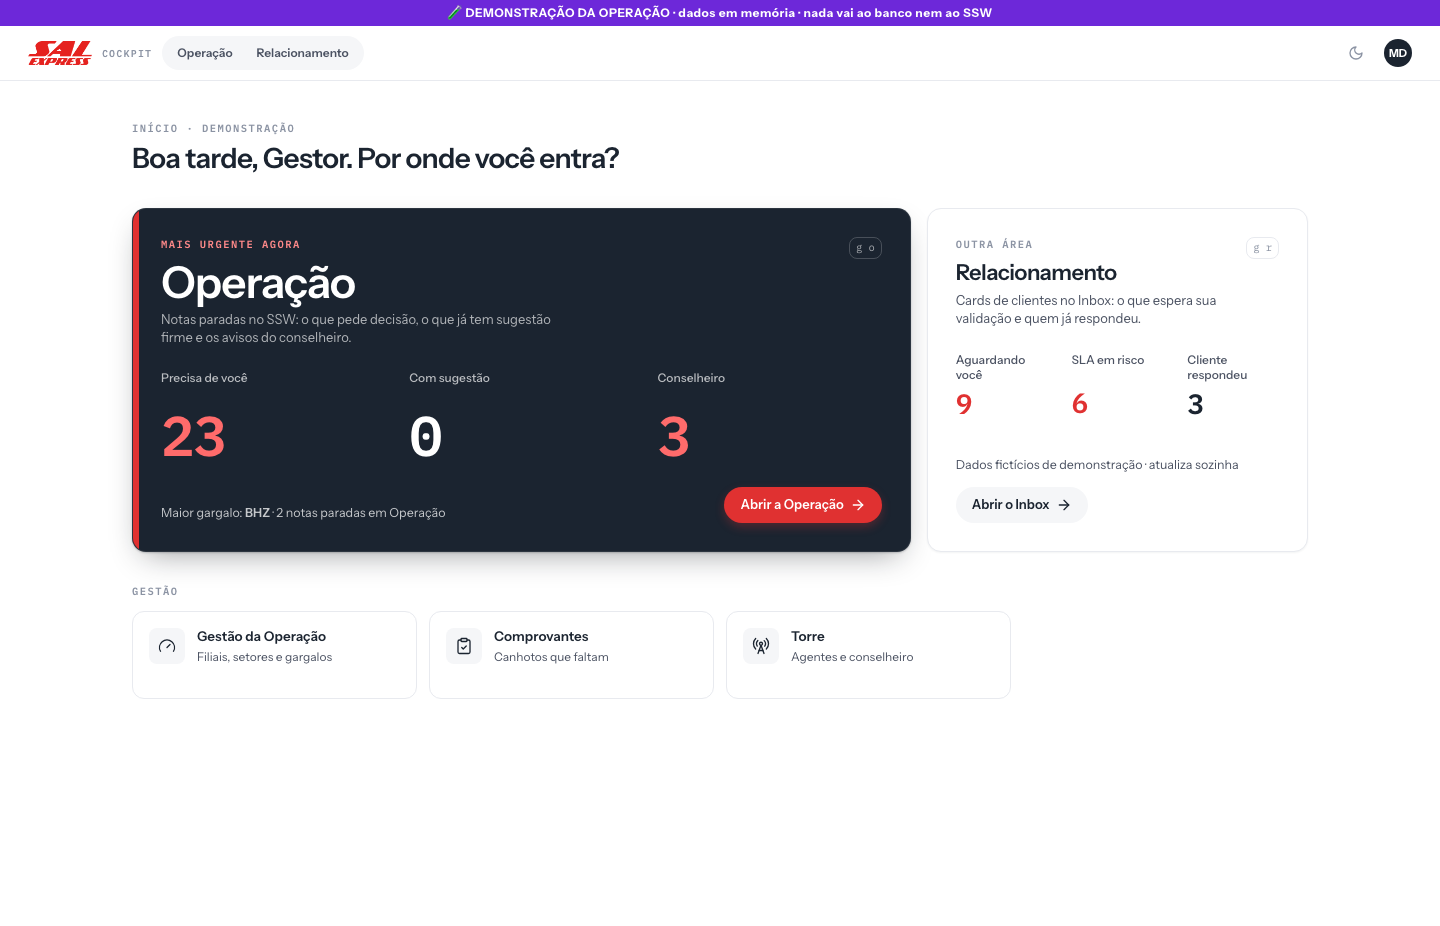
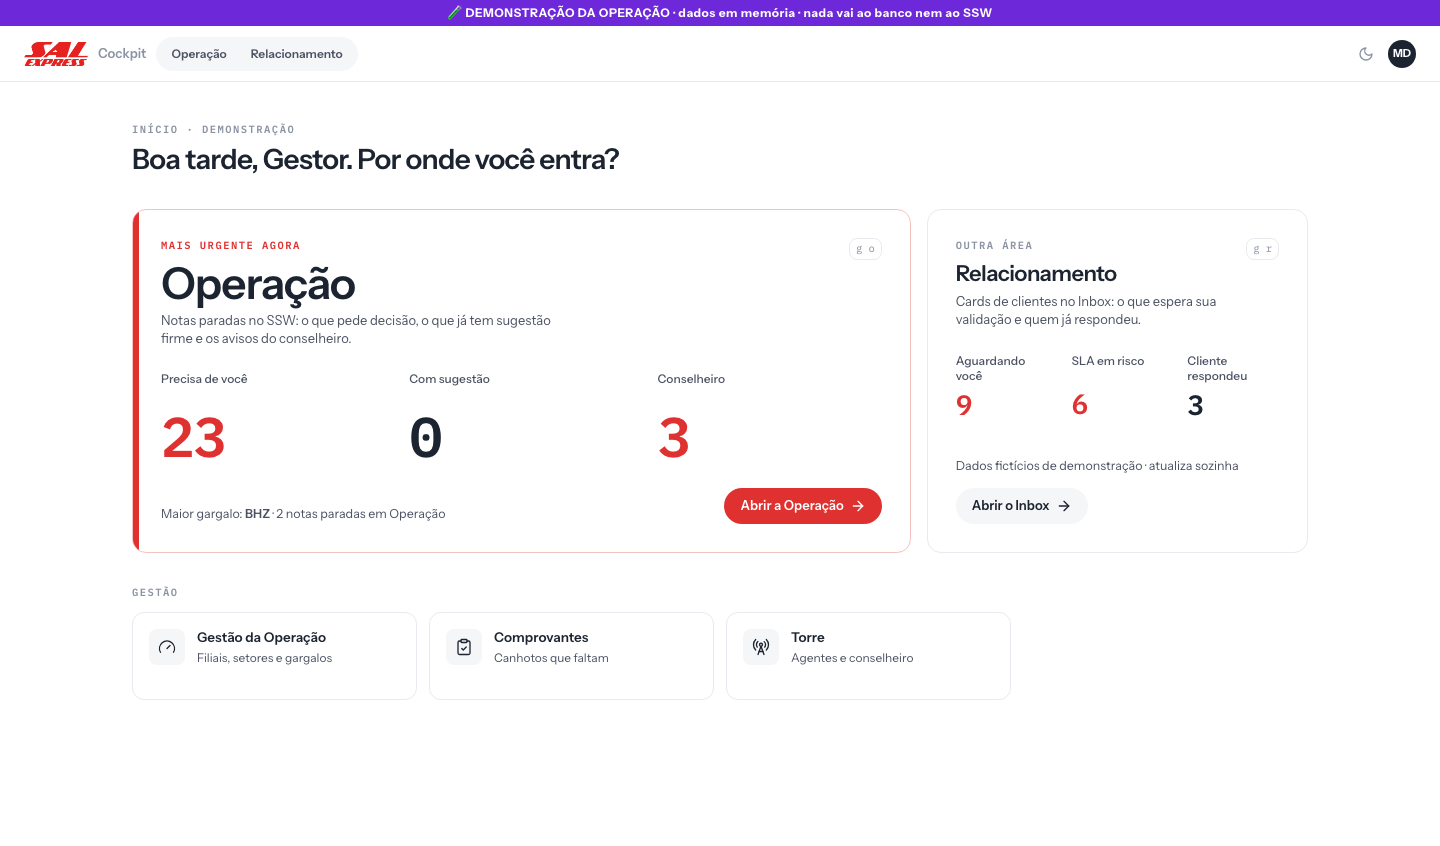
Hub e Operação só com tokens do design system (claro e escuro)
O bloco de destaque do hub deixa o fundo escuro fixo: mesma superfície, borda e
texto dos outros blocos; o destaque vem do tamanho, da posição e do acento Sal.
Na Operação e na Torre, as cores fixas viram tokens novos (--encaminhar*,
--warning-strong/-border) com variante do modo escuro. Relacionamento intocado.

diff --git a/apps/cockpit-web/src/pages/Inicio.tsx b/apps/cockpit-web/src/pages/Inicio.tsx
@@ -42,20 +42,20 @@ interface Stat {
   critico?: boolean;
 }
 
-function ValorStat({ n, grande, critico, escuro }: { n: Numero; grande: boolean; critico?: boolean; escuro: boolean }) {
+function ValorStat({ n, grande, critico }: { n: Numero; grande: boolean; critico?: boolean }) {
   const tam = grande ? "text-[44px] leading-none md:text-[56px]" : "text-[28px] leading-none";
   if (n.carregando) {
     return (
       <span
         aria-hidden
         className={cn("block animate-pulse rounded-md motion-reduce:animate-none", grande ? "h-11 w-16 md:h-14" : "h-7 w-10")}
-        style={{ background: escuro ? "rgba(255,255,255,.12)" : "var(--bg-muted)" }}
+        style={{ background: "var(--bg-muted)" }}
       />
     );
   }
   if (n.erro || n.valor == null) {
     return (
-      <span className={cn("font-mono font-semibold tabular-nums", tam)} style={{ color: escuro ? "rgba(255,255,255,.45)" : "var(--c-ink-mute)" }} title="Não deu para ler agora">
+      <span className={cn("font-mono font-semibold tabular-nums", tam)} style={{ color: "var(--c-ink-mute)" }} title="Não deu para ler agora">
         —
       </span>
     );
@@ -64,7 +64,7 @@ function ValorStat({ n, grande, critico, escuro }: { n: Numero; grande: boolean;
   return (
     <span
       className={cn("font-mono font-semibold tabular-nums tracking-tight", tam)}
-      style={{ color: alerta ? (escuro ? "#FF6B6B" : "var(--signal)") : escuro ? "#fff" : "var(--c-ink)" }}
+      style={{ color: alerta ? "var(--signal)" : "var(--c-ink)" }}
     >
       {n.valor}
     </span>
@@ -97,7 +97,6 @@ function BlocoArea({
   atalho: string;
   cta: string;
 }) {
-  const escuro = destaque;
   const conteudo = (
     <>
       {destaque && <span aria-hidden className="absolute inset-y-0 left-0 w-1.5" style={{ background: "var(--signal)" }} />}
@@ -105,23 +104,23 @@ function BlocoArea({
         <div className="min-w-0">
           <p
             className="font-mono text-[10.5px] font-semibold uppercase tracking-[0.14em]"
-            style={{ color: escuro ? "#FF8A8A" : "var(--c-ink-mute)" }}
+            style={{ color: destaque ? "var(--signal)" : "var(--c-ink-mute)" }}
           >
             {destaque ? "Mais urgente agora" : "Outra área"}
           </p>
           <h2
             className={cn("mt-1.5 font-semibold tracking-tight", destaque ? "text-[34px] leading-[1.05] md:text-[44px]" : "text-[22px] leading-tight")}
-            style={{ color: escuro ? "#fff" : "var(--c-ink)" }}
+            style={{ color: "var(--c-ink)" }}
           >
             {titulo}
           </h2>
-          <p className="mt-1.5 max-w-[46ch] text-[13px] leading-snug" style={{ color: escuro ? "rgba(255,255,255,.66)" : "var(--c-ink-soft)" }}>
+          <p className="mt-1.5 max-w-[46ch] text-[13px] leading-snug" style={{ color: "var(--c-ink-soft)" }}>
             {descricao}
           </p>
         </div>
         <kbd
           className="hidden shrink-0 rounded-md border px-1.5 py-0.5 font-mono text-[10.5px] md:inline-block"
-          style={{ borderColor: escuro ? "rgba(255,255,255,.2)" : "var(--c-border)", color: escuro ? "rgba(255,255,255,.6)" : "var(--c-ink-mute)" }}
+          style={{ borderColor: "var(--c-border)", color: "var(--c-ink-mute)" }}
           aria-hidden
         >
           {atalho}
@@ -131,25 +130,26 @@ function BlocoArea({
       <dl className={cn("mt-6 grid gap-x-6 gap-y-5", "grid-cols-3")}>
         {stats.map((s) => (
           <div key={s.rotulo} className="min-w-0">
-            <dt className="min-h-[2.4em] text-[12px] font-medium leading-tight" style={{ color: escuro ? "rgba(255,255,255,.7)" : "var(--c-ink-soft)" }}>
+            <dt className="min-h-[2.4em] text-[12px] font-medium leading-tight" style={{ color: "var(--c-ink-soft)" }}>
               {s.rotulo}
             </dt>
             <dd className="mt-2">
-              <ValorStat n={s.numero} grande={destaque} critico={s.critico} escuro={escuro} />
+              <ValorStat n={s.numero} grande={destaque} critico={s.critico} />
             </dd>
           </div>
         ))}
       </dl>
 
       <div className="mt-auto flex flex-wrap items-end justify-between gap-3 pt-6">
-        <div className="min-w-0 text-[12.5px]" style={{ color: escuro ? "rgba(255,255,255,.75)" : "var(--c-ink-soft)" }}>
+        <div className="min-w-0 text-[12.5px]" style={{ color: "var(--c-ink-soft)" }}>
           {rodape}
         </div>
         <span
           className={cn(
             "inline-flex items-center gap-1.5 rounded-[20px] px-4 py-2 text-[13px] font-semibold transition-[background-color,gap] duration-150 group-hover:gap-2.5",
+            destaque && "text-white",
           )}
-          style={destaque ? { background: "var(--signal)", color: "#fff", boxShadow: "0 4px 10px rgba(224,49,49,.28)" } : { background: "var(--bg-subtle)", color: "var(--c-ink)" }}
+          style={destaque ? { background: "var(--signal)" } : { background: "var(--bg-subtle)", color: "var(--c-ink)" }}
         >
           {cta}
           <ArrowRight className="h-4 w-4" strokeWidth={2} aria-hidden />
@@ -161,11 +161,11 @@ function BlocoArea({
   const classe = cn(
     "group relative flex min-h-[260px] flex-col overflow-hidden rounded-[14px] p-5 text-left outline-none transition-[box-shadow,border-color,transform] duration-150 md:p-7",
     "focus-visible:ring-2 focus-visible:ring-offset-2 focus-visible:ring-[var(--border-focus)] active:scale-[0.995]",
-    destaque ? "md:min-h-[340px]" : "border hover:border-[var(--c-border-strong)]",
+    destaque ? "border md:min-h-[340px]" : "border hover:border-[var(--c-border-strong)]",
   );
   const estilo: React.CSSProperties = destaque
-    ? { background: "#1B2430", border: "1px solid rgba(255,255,255,.08)", boxShadow: "0 1px 2px rgba(15,20,27,.2), 0 12px 32px -12px rgba(15,20,27,.45)" }
-    : { background: "var(--bg-elevated)", borderColor: "var(--c-border)", boxShadow: "0 1px 2px rgba(27,36,48,.05)" };
+    ? { background: "var(--bg-elevated)", borderColor: "var(--signal-border)" }
+    : { background: "var(--bg-elevated)", borderColor: "var(--c-border)" };
   const rotulo = `${titulo}. ${stats.map(textoStat).join(". ")}. ${cta}.`;
 
   if (href) {
@@ -201,7 +201,7 @@ function BlocoAtalho({ a }: { a: Atalho }) {
         a.antes?.();
         gravarUltimaArea(a.area);
       }}
-      className="group flex min-h-[88px] items-start gap-3 rounded-[12px] border p-4 outline-none transition-[border-color,box-shadow,transform] duration-150 hover:border-[var(--c-border-strong)] hover:shadow-[0_6px_16px_-10px_rgba(27,36,48,.35)] focus-visible:ring-2 focus-visible:ring-[var(--border-focus)] focus-visible:ring-offset-2 active:scale-[0.96]"
+      className="group flex min-h-[88px] items-start gap-3 rounded-[12px] border p-4 outline-none transition-[border-color,box-shadow,transform] duration-150 hover:border-[var(--c-border-strong)] focus-visible:ring-2 focus-visible:ring-[var(--border-focus)] focus-visible:ring-offset-2 active:scale-[0.96]"
       style={{ background: "var(--bg-elevated)", borderColor: "var(--c-border)" }}
     >
       <span className="grid h-9 w-9 shrink-0 place-items-center rounded-[8px]" style={{ background: "var(--bg-subtle)", color: "var(--c-ink)" }}>

diff --git a/apps/cockpit-web/src/components/operacao/DetalheItemOperacao.tsx b/apps/cockpit-web/src/components/operacao/DetalheItemOperacao.tsx
@@ -369,7 +369,7 @@ export function DetalheItemOperacao({
             style={
               aviso.tom === "critico"
                 ? { background: "var(--signal-softer)", borderColor: "var(--signal-border)" }
-                : { background: "var(--warning-soft)", borderColor: "rgba(201,138,27,0.35)" }
+                : { background: "var(--warning-soft)", borderColor: "var(--warning-border)" }
             }
           >
             <AlertTriangle className="mt-0.5 h-4 w-4 shrink-0" style={{ color: aviso.tom === "critico" ? "var(--signal-strong)" : "var(--warning)" }} aria-hidden />
@@ -398,8 +398,8 @@ export function DetalheItemOperacao({
       {/* Encaminhamento automático agendado: dá para desfazer até a hora */}
       {agendado && !fechado && (
         <div className="px-5 pb-4 md:px-6" data-testid="encaminhamento-agendado-detalhe">
-          <div className="rounded-[12px] border px-3 py-3 text-[13px]" style={{ borderColor: "rgba(109,40,217,0.45)", background: "rgba(109,40,217,0.05)" }}>
-            <div className="font-semibold" style={{ color: "#6D28D9" }}>
+          <div className="rounded-[12px] border px-3 py-3 text-[13px]" style={{ borderColor: "var(--encaminhar-border)", background: "var(--encaminhar-soft)" }}>
+            <div className="font-semibold" style={{ color: "var(--encaminhar)" }}>
               Encaminhamento ao Relacionamento agendado para {quando(agendado.executar_apos)}
               {agendado.origem === "auto" ? " (automático)" : ""}
             </div>
@@ -462,7 +462,7 @@ export function DetalheItemOperacao({
         <Secao titulo="O que a torre sugere">
           <div
             className="rounded-[14px] border p-3.5"
-            style={{ borderColor: sugEncaminhar ? "rgba(109,40,217,0.35)" : "var(--c-border)", background: firme ? "var(--bg-subtle)" : undefined }}
+            style={{ borderColor: sugEncaminhar ? "var(--encaminhar-border)" : "var(--c-border)", background: firme ? "var(--bg-subtle)" : undefined }}
             data-testid="sugestao-detalhe"
           >
             <div className="flex flex-wrap items-center gap-x-3 gap-y-1 text-[11.5px] font-medium">
@@ -484,7 +484,7 @@ export function DetalheItemOperacao({
               {sugAguardar ? (
                 <Clock className="mt-0.5 h-4 w-4 shrink-0 text-ink-mute" aria-hidden />
               ) : sugEncaminhar ? (
-                <Forward className="mt-0.5 h-4 w-4 shrink-0" style={{ color: "#6D28D9" }} aria-hidden />
+                <Forward className="mt-0.5 h-4 w-4 shrink-0" style={{ color: "var(--encaminhar)" }} aria-hidden />
               ) : (
                 <Eye className="mt-0.5 h-4 w-4 shrink-0" style={{ color: "var(--signal)" }} aria-hidden />
               )}
@@ -512,7 +512,7 @@ export function DetalheItemOperacao({
             {sugAguardar ? null : sugEncaminhar ? (
               <Button
                 className="mt-3 w-full text-white hover:opacity-90 sm:w-auto"
-                style={{ background: "#6D28D9" }}
+                style={{ background: "var(--encaminhar)" }}
                 disabled={ocupado !== null || !!motivoSemEncaminhar || !!ativo || !!agendado}
                 onClick={() => verPreviaEncaminhamento("")}
               >

diff --git a/apps/cockpit-web/src/components/operacao/KanbanOperacao.tsx b/apps/cockpit-web/src/components/operacao/KanbanOperacao.tsx
@@ -251,7 +251,7 @@ export function KanbanOperacao({
                             <div
                               data-testid="encaminhamento-agendado"
                               className="mt-2 rounded-md border px-2 py-1.5 text-[11.5px]"
-                              style={{ borderColor: "#6D28D9", background: "rgba(109,40,217,0.08)", color: "#6D28D9" }}
+                              style={{ borderColor: "var(--encaminhar)", background: "var(--encaminhar-soft)", color: "var(--encaminhar)" }}
                             >
                               <div className="font-semibold">
                                 Encaminhamento agendado
@@ -279,11 +279,11 @@ export function KanbanOperacao({
                               className="mt-2 rounded-md px-2 py-1.5 text-[11.5px]"
                               style={
                                 encaminhar
-                                  ? { background: "rgba(109,40,217,0.10)", color: "#6D28D9" }
+                                  ? { background: "var(--encaminhar-soft)", color: "var(--encaminhar)" }
                                   : aguardar
-                                    ? { background: "rgba(148,112,32,0.10)", color: "#8A6A1C" }
+                                    ? { background: "var(--warning-soft)", color: "var(--warning-strong)" }
                                     : lancavel
-                                    ? { background: "rgba(224,49,49,0.10)", color: "#A82520" }
+                                    ? { background: "var(--signal-soft)", color: "var(--signal-strong)" }
                                     : { background: "var(--bg-subtle)", color: "var(--c-ink-mute)" }
                               }
                             >
@@ -318,7 +318,7 @@ export function KanbanOperacao({
                                   rotulo={`Encaminhar ao Relacionamento a NF ${l.nf ?? l.ctrc}`}
                                   onClick={() => encaminharSugestao(l)}
                                   disabled={fluxo.ocupado}
-                                  cor="#6D28D9"
+                                  cor="var(--encaminhar)"
                                 >
                                   {fluxo.carregandoPrevia === l.op_item_id ? (
                                     <Loader2 className="h-3 w-3 animate-spin" />

diff --git a/apps/cockpit-web/src/components/operacao/KanbanFluxo.tsx b/apps/cockpit-web/src/components/operacao/KanbanFluxo.tsx
@@ -72,7 +72,7 @@ function Botao({
         tipo === "violeta" && "text-white hover:opacity-90",
         tipo === "secundario" && "border border-rule bg-surface text-ink-2 hover:bg-[var(--bg-subtle)]",
       )}
-      style={tipo === "violeta" ? { background: "#6D28D9" } : undefined}
+      style={tipo === "violeta" ? { background: "var(--encaminhar)" } : undefined}
     >
       {children}
     </button>
@@ -208,7 +208,7 @@ export function KanbanFluxo({
               style={
                 avisoDaNota.get(l.op_item_id)!.tom === "critico"
                   ? { background: "var(--signal-softer)", color: "var(--signal-strong)" }
-                  : { background: "var(--warning-soft)", color: "#8A5A00" }
+                  : { background: "var(--warning-soft)", color: "var(--warning-strong)" }
               }
             >
               <AlertTriangle className="mt-[1px] h-3 w-3 shrink-0" aria-hidden />
@@ -237,7 +237,7 @@ export function KanbanFluxo({
             <div className="mt-2 flex flex-wrap items-center gap-2 border-t border-rule pt-2 text-[12px]">
               {l.encaminhamento_id ? (
                 <>
-                  <span className="font-medium" style={{ color: "#6D28D9" }}>
+                  <span className="font-medium" style={{ color: "var(--encaminhar)" }}>
                     Encaminhamento agendado{l.encaminhamento_executar_apos ? ` para ${hhmm(l.encaminhamento_executar_apos)}` : ""}
                   </span>
                   {membro && (

diff --git a/apps/cockpit-web/src/components/operacao/ListaFilaOperacao.tsx b/apps/cockpit-web/src/components/operacao/ListaFilaOperacao.tsx
@@ -59,7 +59,7 @@ export function ListaFilaOperacao({
                 {l.descricao_oc && <span className="min-w-0 truncate text-[12px] text-ink-mute">{frase(l.descricao_oc)}</span>}
                 <span className="text-[11.5px] font-medium text-ink-mute">base {l.unidade ?? "sem filial"}</span>
                 {avisoDaNota?.get(l.op_item_id) && (
-                  <span className="inline-flex items-center gap-1 text-[11.5px] font-medium" style={{ color: "#8A5A00" }}>
+                  <span className="inline-flex items-center gap-1 text-[11.5px] font-medium" style={{ color: "var(--warning-strong)" }}>
                     <AlertTriangle className="h-3 w-3" aria-hidden /> Conselheiro
                   </span>
                 )}
@@ -83,7 +83,7 @@ export function ListaFilaOperacao({
                 {l.encaminhamento_id && (
                   <span
                     className="inline-flex items-center rounded-full px-2 py-0.5 text-[10px] font-semibold"
-                    style={{ background: "rgba(109,40,217,0.12)", color: "#6D28D9" }}
+                    style={{ background: "var(--encaminhar-soft)", color: "var(--encaminhar)" }}
                   >
                     Encaminhamento agendado
                   </span>

diff --git a/apps/cockpit-web/src/components/operacao/DialogoPreviaEncaminhamento.tsx b/apps/cockpit-web/src/components/operacao/DialogoPreviaEncaminhamento.tsx
@@ -69,7 +69,7 @@ export function DialogoPreviaEncaminhamento({
           <div
             data-testid="destino-espelho"
             className="rounded-[10px] border px-3 py-2 text-[13px] font-semibold"
-            style={{ borderColor: "#6D28D9", background: "rgba(109,40,217,0.08)", color: "#5B21B6" }}
+            style={{ borderColor: "var(--encaminhar)", background: "var(--encaminhar-soft)", color: "var(--encaminhar-strong)" }}
           >
             Destino: ESPELHO do Relacionamento (não chega ao Cockpit real)
           </div>
@@ -121,7 +121,7 @@ export function DialogoPreviaEncaminhamento({
             Voltar
           </Button>
           {!erro && previa && (
-            <Button onClick={onConfirmar} disabled={enviando} style={{ background: "#6D28D9", color: "#fff" }}>
+            <Button onClick={onConfirmar} disabled={enviando} style={{ background: "var(--encaminhar)", color: "#fff" }}>
               {enviando ? <Loader2 className="mr-2 h-4 w-4 animate-spin" /> : <Forward className="mr-2 h-4 w-4" />}
               {espelho ? "Confirmar e enviar ao espelho" : "Confirmar e encaminhar"}
             </Button>

diff --git a/apps/cockpit-web/src/index.css b/apps/cockpit-web/src/index.css
@@ -52,6 +52,14 @@
 
     --warning: #C98A1B;
     --warning-soft: #FFF4E0;
+    --warning-strong: #8A5A00;   /* texto âmbar sobre fundo claro (AA) */
+    --warning-border: #EBCB8F;
+
+    /* Encaminhar ao Relacionamento (Operação, ADR 0041 D11): violeta, distinto do vermelho Sal */
+    --encaminhar: #6D28D9;
+    --encaminhar-strong: #5B21B6;
+    --encaminhar-soft: #F1EBFC;
+    --encaminhar-border: #C9B6F2;
 
     --negative: #A82520;
     --negative-soft: #FDECEC;
@@ -420,6 +428,13 @@
 
     --warning: #E8B04B;
     --warning-soft: #322712;
+    --warning-strong: #F5C86B;
+    --warning-border: #5C4515;
+
+    --encaminhar: #A78BFA;
+    --encaminhar-strong: #C4B5FD;
+    --encaminhar-soft: #241B3A;
+    --encaminhar-border: #4B3A78;
 
     --negative: #FF8A85;
     --negative-soft: #38181A;

diff --git a/apps/cockpit-web/src/components/operacao/ChipsOperacao.tsx b/apps/cockpit-web/src/components/operacao/ChipsOperacao.tsx
@@ -78,9 +78,9 @@ export function ChipSugestao({ sugestao, lancavel }: { sugestao: OpSugestao | nu
   );
 }
 
-export const COR_LANCAR = { background: "rgba(224,49,49,0.12)", color: "#C92A2A" };
-export const COR_AGUARDAR = { background: "rgba(148,112,32,0.12)", color: "#8A6A1C" };
-export const COR_ENCAMINHAR = { background: "rgba(109,40,217,0.12)", color: "#6D28D9" };
+export const COR_LANCAR = { background: "var(--signal-soft)", color: "var(--signal-strong)" };
+export const COR_AGUARDAR = { background: "var(--warning-soft)", color: "var(--warning-strong)" };
+export const COR_ENCAMINHAR = { background: "var(--encaminhar-soft)", color: "var(--encaminhar)" };
 
 export function TempoParado({ ms, compacto = false }: { ms: number | null; compacto?: boolean }) {
   const tom = tomTempoParado(ms);

diff --git a/apps/cockpit-web/src/components/layout/NavegacaoHeader.tsx b/apps/cockpit-web/src/components/layout/NavegacaoHeader.tsx
@@ -25,10 +25,10 @@ function Contador({ n, critica, ativo }: { n: number; critica?: boolean; ativo: 
   if (!n) return null;
   return (
     <span
-      className="min-w-[18px] rounded-full px-1.5 text-center text-[11px] font-semibold leading-[18px] tabular-nums"
+      className={cn("min-w-[18px] rounded-full px-1.5 text-center text-[11px] font-semibold leading-[18px] tabular-nums", ativo && "bg-white/20 text-white")}
       style={
         ativo
-          ? { background: "rgba(255,255,255,.22)", color: "#fff" }
+          ? undefined
           : critica
             ? { background: "var(--signal-soft)", color: "var(--signal-strong)" }
             : { background: "var(--bg-muted)", color: "var(--c-ink-soft)" }

diff --git a/apps/cockpit-web/src/components/layout/SeletorArea.tsx b/apps/cockpit-web/src/components/layout/SeletorArea.tsx
@@ -81,7 +81,7 @@ export function SeletorArea({ veRelacionamento, veOperacao }: { veRelacionamento
             title={`${o.rotulo} (${o.tecla})`}
             className={cn(
               "rounded-[17px] px-3 py-[5px] text-[12px] font-semibold transition-[background-color,color,box-shadow] duration-150 focus-visible:outline-none focus-visible:ring-2 focus-visible:ring-[var(--border-focus)]",
-              ativo ? "shadow-[0_1px_2px_rgba(27,36,48,.12)]" : "hover:text-[var(--c-ink)]",
+              ativo ? "shadow-sm" : "hover:text-[var(--c-ink)]",
             )}
             style={ativo ? { background: "var(--bg-elevated)", color: "var(--c-ink)" } : { color: "var(--c-ink-soft)" }}
           >

diff --git a/apps/cockpit-web/src/pages/operacao/EspelhoRelacionamento.tsx b/apps/cockpit-web/src/pages/operacao/EspelhoRelacionamento.tsx
@@ -250,7 +250,7 @@ export default function EspelhoRelacionamento() {
             Relacionamento teria aceitado: é assim que as sugestões aprendem.
           </p>
           {modo && (
-            <p className="mt-2 text-[12px] font-semibold" style={{ color: modo === "espelho" ? "#6D28D9" : "var(--signal-strong)" }}>
+            <p className="mt-2 text-[12px] font-semibold" style={{ color: modo === "espelho" ? "var(--encaminhar)" : "var(--signal-strong)" }}>
               {modo === "espelho"
                 ? "Modo atual: ESPELHO. Nada vai ao Relacionamento real."
                 : "Modo atual: REAL. Encaminhamentos novos viram card no Relacionamento."}

diff --git a/apps/cockpit-web/src/components/operacao/TorreOperacao.tsx b/apps/cockpit-web/src/components/operacao/TorreOperacao.tsx
@@ -261,7 +261,7 @@ export function Especialistas({ resumo, foco, onFoco }: { resumo: ResumoTorre; f
 
 const TOM_AVISO = {
   critico: { Icone: AlertTriangle, cor: "var(--signal-strong)", bg: "var(--signal-softer)", borda: "var(--signal-border)" },
-  atencao: { Icone: AlertTriangle, cor: "var(--warning)", bg: "var(--warning-soft)", borda: "rgba(201,138,27,0.35)" },
+  atencao: { Icone: AlertTriangle, cor: "var(--warning)", bg: "var(--warning-soft)", borda: "var(--warning-border)" },
   info: { Icone: Info, cor: "var(--c-ink-soft)", bg: "var(--bg-subtle)", borda: "var(--c-border)" },
 } as const;
 
